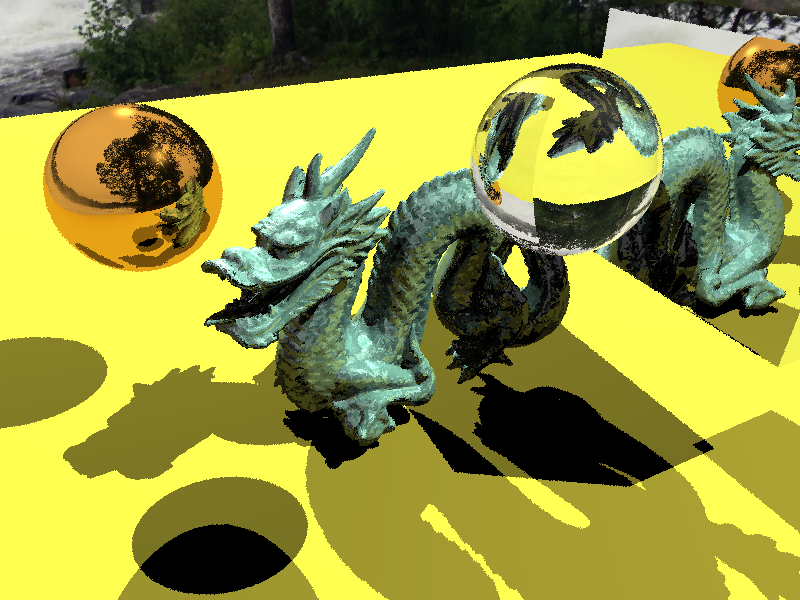
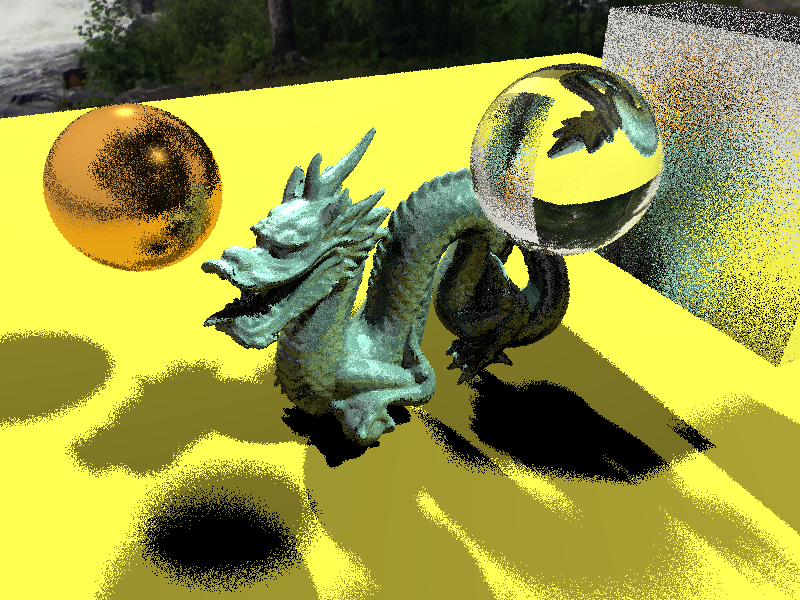
normalize

diff --git a/P3D_Template/P3D_Template/main.cpp b/P3D_Template/P3D_Template/main.cpp
@@ -32,7 +32,7 @@
 #define MAX_DEPTH 4
 #define DISPLACE_BIAS 0.001
 
-#define SPP 1
+#define SPP 256
 unsigned int FrameCount = 0;
 
 // Accelerators
@@ -65,10 +65,10 @@ bool drawModeEnabled = false;
 bool withAntialiasing = true;
 
 //Enable soft shadows
-bool softShadows = false;
+bool softShadows = true;
 
 //Enable fuzzy reflection
-bool fuzzyReflections = false;
+bool fuzzyReflections = true;
 
 bool P3F_scene = true; //choose between P3F scene or a built-in random scene
 float sppSquared = sqrt(SPP);

diff --git a/P3D_Template/P3D_Template/vector.cpp b/P3D_Template/P3D_Template/vector.cpp
@@ -60,10 +60,14 @@ Vector Vector::operator/( float f )
 }
 
 Vector&	Vector::normalize	()
-{
-				   float l=1.0/this->length();
-				   x *= l; y *= l; z *= l;
-				   return *this;
+{					
+	if (this->length() > 0) {
+		float l = 1.0 / this->length();
+		x *= l; y *= l; z *= l;
+		return *this;
+	}
+	x = 1; y = 0; z = 0;
+	return *this;
 }
 
 Vector&	Vector::operator-=(const Vector& v)

diff --git a/P3D_Template/P3D_Template/scene.cpp b/P3D_Template/P3D_Template/scene.cpp
@@ -499,7 +499,8 @@ Color Scene::GetSkyboxColor(Ray& r) {
 	float green = u8tofloat(skybox_img[img_side].img[(yp*width + xp) * bytesperpixel + 1]);
 	float blue = u8tofloat(skybox_img[img_side].img[(yp*width + xp) * bytesperpixel + 2]);
 
-	return(Color(red, green, blue));
+	return Color(red, green, blue);
+	
 }
 
 

diff --git a/P3D_Template/P3D_Template/fuzzyReflector.h b/P3D_Template/P3D_Template/fuzzyReflector.h
@@ -21,4 +21,4 @@ public:
 		}
 		return false;
 	}
-};
+}; 
